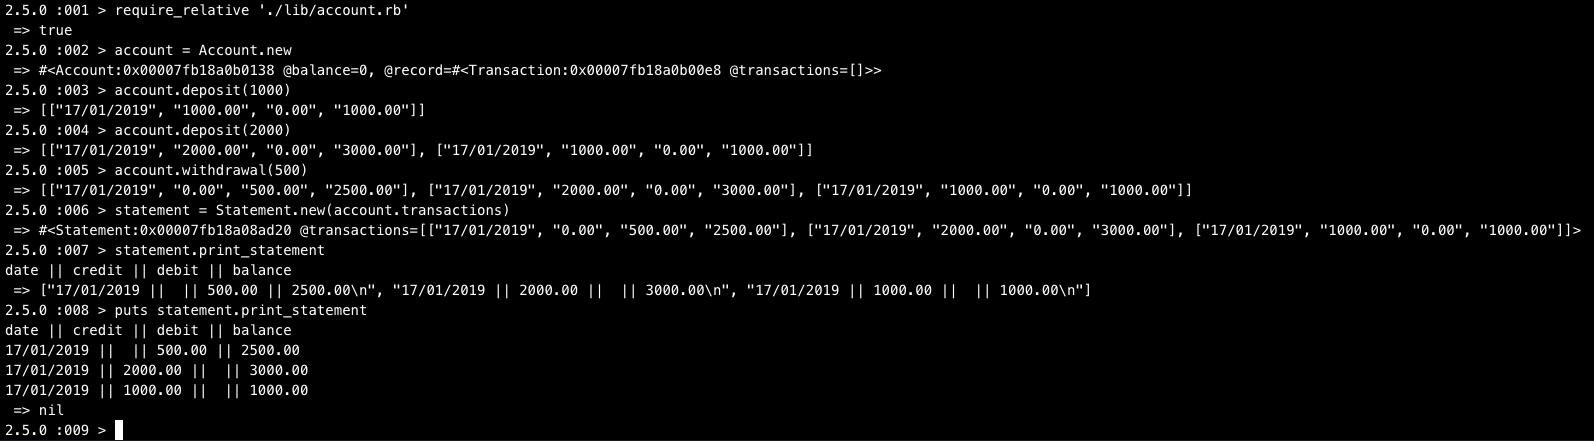
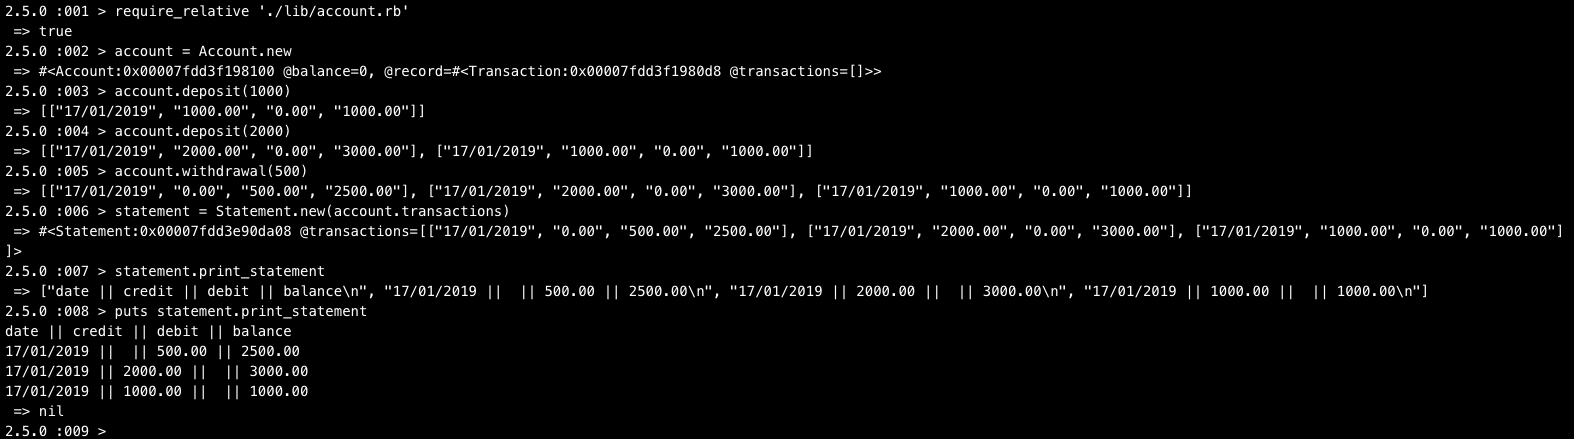
updated printing statement README

Changed region(s): [[0.0, 0.0, 0.9962, 1.0]]

diff --git a/spec/features/depost_withdrawal_print_statement_spec.rb b/spec/features/depost_withdrawal_print_statement_spec.rb
@@ -22,7 +22,7 @@ describe 'Feature: Make multiple transactions and see statement' do
     account.deposit(1000)
     account.deposit(2000)
     account.withdrawal(500)
-    p statement.print_statement
+    statement.print_statement
     expect(statement.statement).to eq(example_statement)
   end
   it 'can print statement twice' do

diff --git a/spec/helpers/example_statement.rb b/spec/helpers/example_statement.rb
@@ -1,7 +1,8 @@
 # frozen_string_literal: true
 
 def example_statement
-  ["16/01/2019 ||  || 500.00 || 2500.00\n",
+  ["date || credit || debit || balance\n",
+   "16/01/2019 ||  || 500.00 || 2500.00\n",
    "16/01/2019 || 2000.00 ||  || 3000.00\n",
    "16/01/2019 || 1000.00 ||  || 1000.00\n"]
 end

diff --git a/lib/statement.rb b/lib/statement.rb
@@ -11,7 +11,6 @@ class Statement
   end
 
   def print_statement
-    puts HEADER
     remove_zeros
   end
 
@@ -33,5 +32,6 @@ class Statement
     @statement = @statement.each do |x|
       x << "\n"
     end
+    @statement.unshift(HEADER)
   end
 end
